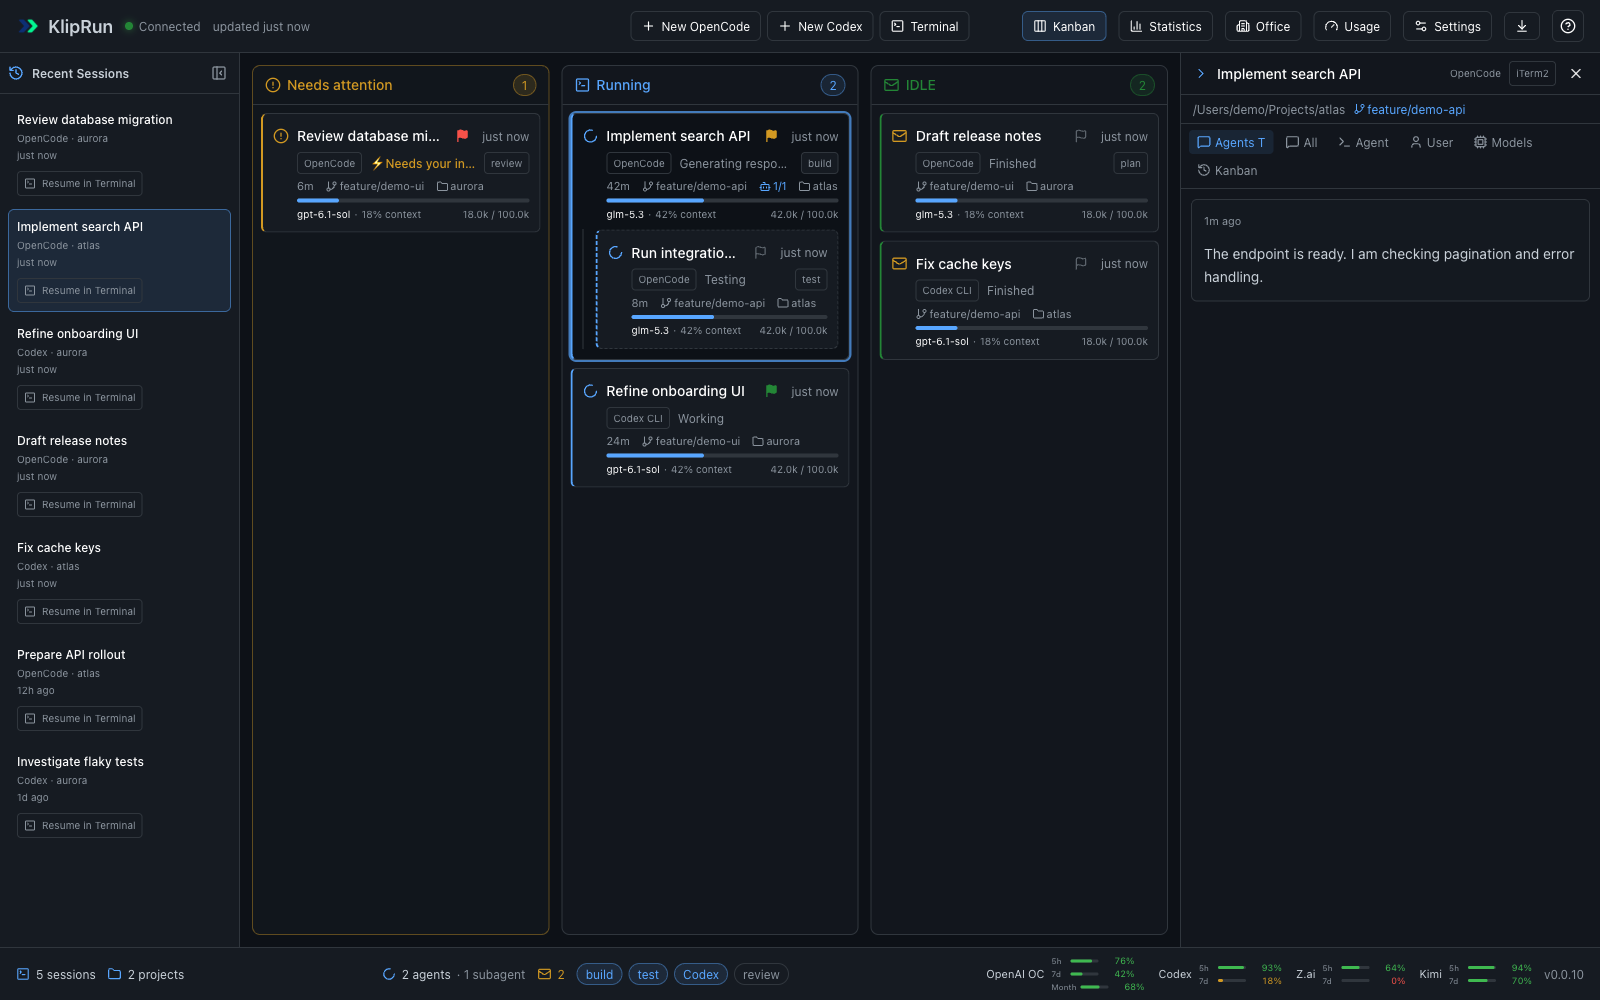
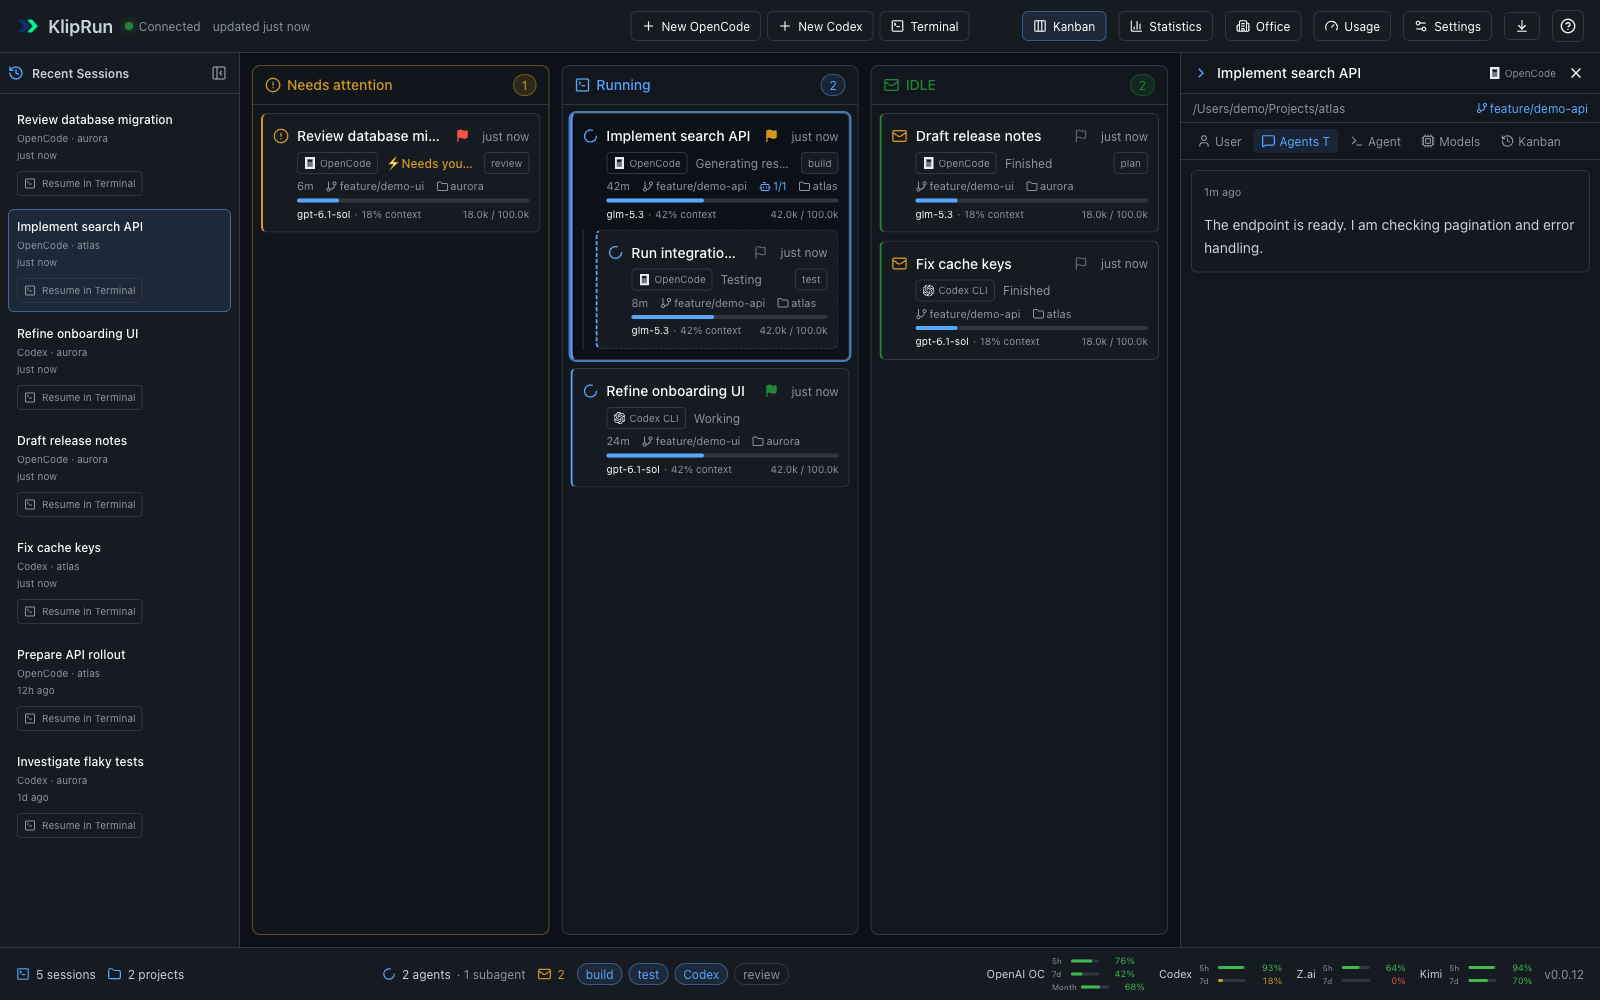
release/0.0.12: Подготовить выпуск и обновить скриншоты
Обновить приложение, движок и клиент до 0.0.12 / build 12.
Описать изменения и особенности запуска Codex в changelog и README.
Переснять девять скриншотов исключительно на вымышленных данных.

diff --git a/docs/screenshots/capture-all.js b/docs/screenshots/capture-all.js
@@ -10,7 +10,7 @@ async (page, directory = "docs/screenshots") => {
     await page.goto(`${base}${path}`);
     if (!path.startsWith("/__demo/")) {
       await page.locator('[data-testid="version"]').waitFor();
-      if ((await page.locator('[data-testid="version"]').innerText()) !== "v0.0.10") throw new Error("Build the 0.0.10 client before capturing.");
+      if ((await page.locator('[data-testid="version"]').innerText()) !== "v0.0.12") throw new Error("Build the 0.0.12 client before capturing.");
     }
   }
   async function sidebar(expanded) {

diff --git a/README.md b/README.md
@@ -6,7 +6,7 @@ KlipRun is a macOS app for following OpenCode and Codex sessions in one place. I
 
 The downloadable build is for **Apple Silicon Macs running macOS 13 or newer**.
 
-1. Download `KlipRun-0.0.11-macos-arm64.zip` from the [latest release](https://github.com/klipbn/kliprun_desktop/releases/latest).
+1. Download `KlipRun-0.0.12-macos-arm64.zip` from the [latest release](https://github.com/klipbn/kliprun_desktop/releases/latest).
 2. Unzip it and move `KlipRun.app` to **Applications**.
 3. Open the app. The release is signed locally but is not notarized, so macOS may block the first launch. If it does, go to **System Settings → Privacy & Security → Open Anyway**, then open KlipRun again.
 
@@ -64,7 +64,9 @@ Browse recent OpenCode and Codex sessions, inspect their details, and resume the
 - **New OpenCode** and **New Codex** ask you to choose a project folder, then start the agent in the terminal panel.
 - **⌘T** lets you choose OpenCode, Codex, or a plain terminal. A plain terminal opens in the selected tab's folder, or your home folder when no tab is selected.
 - Drag terminal tabs left or right to reorder them. **⌘1–9** follows the new order. Hover over a tab to see the full folder path it was launched from.
-- Clicking a session card switches an already visible terminal when its session is known. Codex clients using a shared daemon may not expose an exact process link. For an existing unlinked tab, select its card, then right-click the tab and choose **Link to Selected Session**. The explicit link lasts for that tab; a conflicting exact process link takes precedence. **Resume in Terminal** preserves the requested session link even when process descriptors are unavailable.
+- Switching terminal tabs also opens the matching session in the details panel. Tabs without a known session keep the current details open.
+- Clicking a session card switches an already visible terminal when its session is known. New Codex tabs request the current chat ID through Codex's terminal-title setting, so the card follows `/new` and `/resume` automatically without a chat selector. KlipRun resolves shortened IDs only when they match exactly one stored session. Tab labels keep their project name and can still be renamed. Existing or external terminals without that signal use confirmed process links; ambiguous cards show **Connecting session…**. **Resume in Terminal** preserves the requested session link until the terminal reports its current chat.
+- On Codex 0.163, this per-launch title setting uses an embedded backend instead of automatically reusing the shared daemon. Existing daemon sessions keep running; user configuration and chat history stay shared.
 - Click **Terminal** to show or hide the terminal area. Tabs keep running while hidden. Closing an active tab or quitting the app asks before ending its process.
 - Use the position button beside **+** in the terminal toolbar to switch between **Move terminal to left** and **Move terminal to bottom**. Drag the divider to adjust the pane; its position, bottom height, and left width are remembered independently. Moving the panel keeps the current terminal and dashboard view open.
 - Exiting an agent or shell automatically closes its terminal tab. The terminal area hides after the last tab exits.
@@ -72,7 +74,7 @@ Browse recent OpenCode and Codex sessions, inspect their details, and resume the
 - Click **?** in the upper-right corner for every keyboard shortcut. Open **Settings** with the neighboring button or **⌘,**. Settings are saved between launches.
 - **Settings → Terminal** adjusts mouse-wheel speed from **1–10×** (default **5×**), smooth scrolling for trackpads and Magic Mouse independently (default **1×**), terminal font size (**10–24 pt**), and left/bottom placement. Speed and font changes apply to all open terminals immediately and to newly opened tabs. Wheel speed also applies when Codex/OpenCode handles scrolling itself; generated input remains rate-limited.
 - **Settings → Appearance** controls interface scale independently of the terminal font, the next launch's startup screen, the default details tab, and reduced Office animations. The macOS Reduce Motion setting is also respected.
-- Session details default to **Agents T**, the first tab before **All**. It shows only agent text, with Markdown headings, lists, links, tables, and code blocks; tool calls and technical metadata remain in the other tabs. You can choose **All** or **Agent** as the default in Settings.
+- Session details use **User → Agents T → Agent → Models → Kanban**. **Agents T** remains the default, with readable agent replies and Markdown; Settings also offers **Agent**. **Kanban** shows status history and time spent in each state. Harness icons distinguish Codex and OpenCode on cards and in details. Click the current Git branch to open it on GitHub or GitLab; without a remote, the branch stays plain text. The branch follows the repository's current `HEAD`, including worktrees.
 - **Settings → Notifications** controls the coworker popup, with separate **Response ready** and **Needs your input** switches. **Sound** offers installed macOS system sounds, **Preview sound**, and **None** for silence. The selected sound plays when a popup appears, including **Show preview**. Display duration and popup position controls are in the same section.
 
 KlipRun reads existing OpenCode and Codex session data without changing their stores. Its bundled engine runs on a random local loopback port and requires an app-generated token. App preferences and its own state live in `~/Library/Application Support/KlipRun Desktop`.

diff --git a/docs/screenshots/README.md b/docs/screenshots/README.md
@@ -1,6 +1,6 @@
 # Demo screenshots
 
-All nine images were refreshed from **KlipRun Desktop 0.0.10** on **2026-10-16**. Session IDs, titles, project paths, models, priority flags, quotas, and usage totals come only from [`mock-api.json`](mock-api.json). The preview fixes the clock to the fixture’s `board.generated_at` (2026-10-14), supplies a stub desktop bridge, and disables Office motion. No live engine, user session store, credentials, quota API, or agent process is used.
+All nine images were refreshed from **KlipRun Desktop 0.0.12** on **2026-10-16**. Session IDs, titles, project paths, models, priority flags, quotas, and usage totals come only from [`mock-api.json`](mock-api.json). The preview fixes the clock to the fixture’s `board.generated_at` (2026-10-14), supplies a stub desktop bridge, and disables Office motion. No live engine, user session store, credentials, quota API, or agent process is used.
 
 | File | Size | Example shown |
 | --- | --- | --- |
@@ -18,6 +18,6 @@ The fixture API covers `/api/board`, `/api/session/:id`, `/api/recent-sessions`,
 
 Build the client with `cd engine/src/client && bun run build`, then start `bun docs/screenshots/preview.ts` from the repository root. The fixture-only server binds to `127.0.0.1:18796` and serves the built client without starting a live engine.
 
-[`capture-all.js`](capture-all.js) is an async Playwright callback taking `(page, outputDirectory = "docs/screenshots")`. It captures all nine images, checks the UI version and provider names, and rejects external requests. Invoke it with a directory on the Playwright host, or run from the repository root to use the default directory. The 0.0.10 capture made **zero external requests**. [`capture-usage.js`](capture-usage.js) remains available for capturing Usage alone.
+[`capture-all.js`](capture-all.js) is an async Playwright callback taking `(page, outputDirectory = "docs/screenshots")`. It captures all nine images, checks the UI version and provider names, and rejects external requests. Invoke it with a directory on the Playwright host, or run from the repository root to use the default directory. The 0.0.12 capture made **zero external requests**. [`capture-usage.js`](capture-usage.js) remains available for capturing Usage alone.
 
 `desktop-terminal.png` combines the current `kanban-details.png` capture with [`terminal-demo.html`](terminal-demo.html), available at `/__demo/terminal-demo.html`. The terminal transcript and tabs are static fictional content with white tab labels; this composition never launches an agent or captures a real terminal.

diff --git a/CHANGELOG.md b/CHANGELOG.md
@@ -4,6 +4,32 @@ Notable changes to KlipRun Desktop are recorded here. Versions use [Semantic Ver
 
 ## [Unreleased]
 
+## [0.0.12] - 2026-10-16
+
+### Added
+
+- Click the current Git branch in session details to open it on GitHub or GitLab. Links use the branch's tracking remote, or origin, and support SSH remotes and worktrees. A branch without a remote remains plain text.
+- Recognizable Codex and OpenCode icons beside harness names on session cards and in details.
+
+### Changed
+
+- New embedded Codex tabs identify their current chat automatically, including after `/new` and `/resume`. Remove the manual chat selector; ambiguous or unavailable IDs remain unlinked instead of selecting a guessed session.
+- Simplify session details: remove **iTerm2** and **All**, and order tabs as **User → Agents T → Agent → Models → Kanban**. **Agents T** remains the default; a saved **All** preference now falls back to it.
+- Explain the Kanban tab with **Status history and time spent in each state.**
+
+### Fixed
+
+- Switching terminal tabs updates the right-hand session details as well as the card highlight. Tabs without a confirmed session keep the current details open.
+- Read the current Git branch on each refresh, removing the previous ten-second delay after a checkout. Resolve relative worktree paths and keep detached HEAD from displaying a parent repository's branch.
+
+### Compatibility
+
+- On Codex 0.163, the per-launch terminal-title setting uses an embedded backend rather than automatically reusing the shared daemon. Existing daemon sessions keep running, and configuration and chat history stay shared. Existing or external terminals without the title signal still require confirmed process evidence.
+
+### Documentation
+
+- Refresh all nine demo screenshots for 0.0.12 using fictional fixture data only.
+
 ## [0.0.11] - 2026-10-16
 
 ### Added
